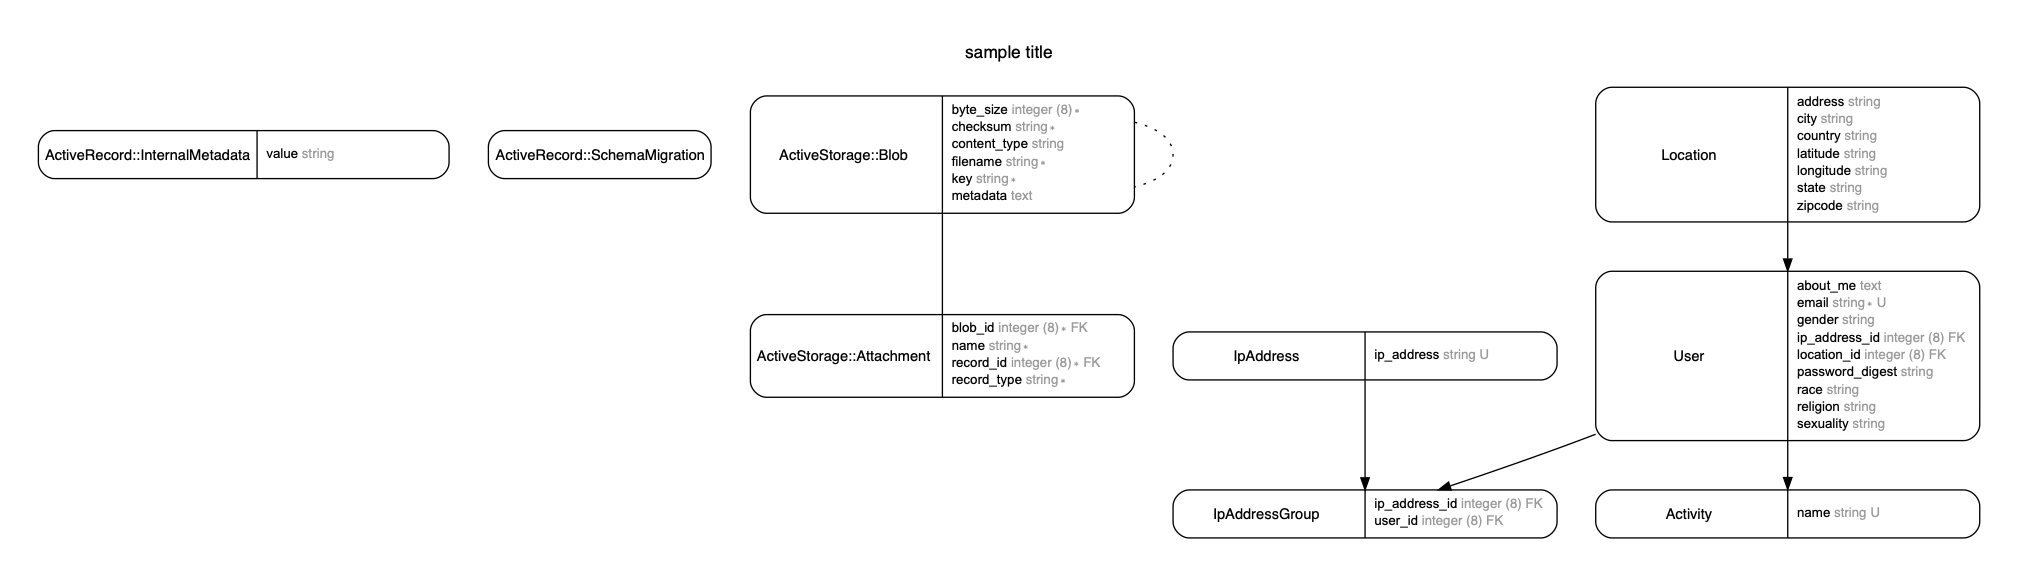
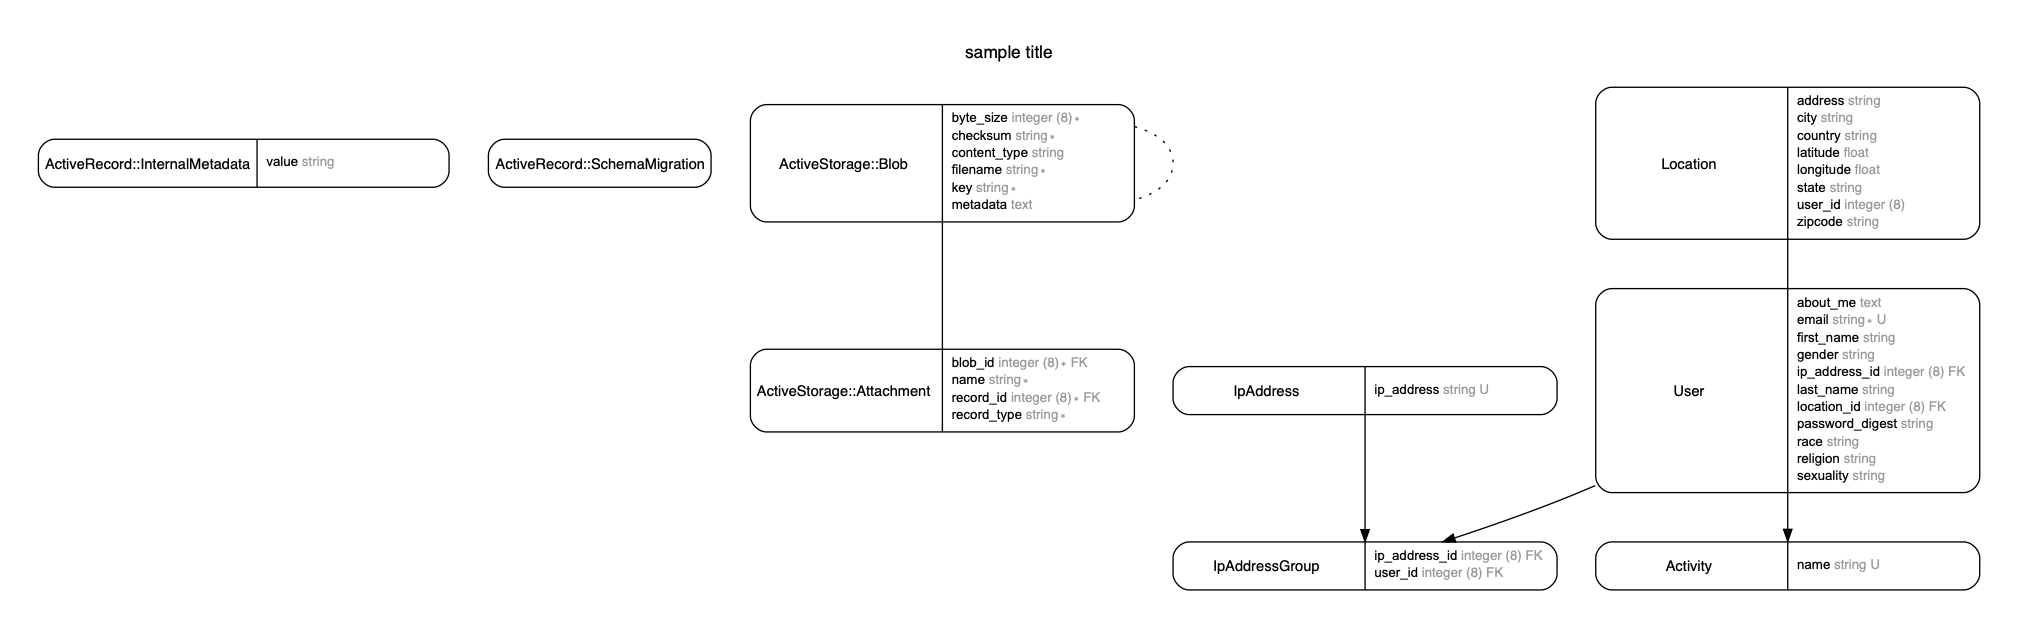
Can now search for all locations within a given users long/latitude and also search by radius in miles or km using Geocoder ruby gem.

diff --git a/db/schema.rb b/db/schema.rb
@@ -10,7 +10,7 @@
 #
 # It's strongly recommended that you check this file into your version control system.
 
-ActiveRecord::Schema.define(version: 2019_08_03_140142) do
+ActiveRecord::Schema.define(version: 2019_08_04_164240) do
 
   create_table "active_storage_attachments", options: "ENGINE=InnoDB DEFAULT CHARSET=utf8", force: :cascade do |t|
     t.string "name", null: false
@@ -55,8 +55,8 @@ ActiveRecord::Schema.define(version: 2019_08_03_140142) do
   end
 
   create_table "locations", options: "ENGINE=InnoDB DEFAULT CHARSET=utf8", force: :cascade do |t|
-    t.string "latitude"
-    t.string "longitude"
+    t.float "latitude"
+    t.float "longitude"
     t.string "city"
     t.string "country"
     t.string "address"
@@ -64,6 +64,8 @@ ActiveRecord::Schema.define(version: 2019_08_03_140142) do
     t.datetime "created_at", null: false
     t.datetime "updated_at", null: false
     t.string "zipcode"
+    t.bigint "user_id"
+    t.index ["user_id"], name: "index_locations_on_user_id"
   end
 
   create_table "users", options: "ENGINE=InnoDB DEFAULT CHARSET=utf8", force: :cascade do |t|
@@ -78,12 +80,15 @@ ActiveRecord::Schema.define(version: 2019_08_03_140142) do
     t.string "sexuality"
     t.string "religion"
     t.string "race"
+    t.string "first_name"
+    t.string "last_name"
     t.index ["email"], name: "index_users_on_email", unique: true
     t.index ["ip_address_id"], name: "index_users_on_ip_address_id"
     t.index ["location_id"], name: "index_users_on_location_id"
   end
 
   add_foreign_key "active_storage_attachments", "active_storage_blobs", column: "blob_id"
+  add_foreign_key "locations", "users"
   add_foreign_key "users", "ip_addresses"
   add_foreign_key "users", "locations"
 end

diff --git a/app/controllers/users_controller.rb b/app/controllers/users_controller.rb
@@ -43,9 +43,7 @@ class UsersController < ApplicationController
     end
 
     result = Geocoder.search(@ip)
-    if result != nil
-    puts result.first.to_s
-    
+    if result != nil    
     @location = Location.new
     @location.latitude = result.first.latitude
     @location.longitude = result.first.longitude
@@ -53,7 +51,8 @@ class UsersController < ApplicationController
     @location.city = result.first.city
     @location.state = result.first.region
     @location.zipcode = result.first.postal
-
+    
+    @location.user_id = @user.id
     @location.save!
 
     @user.location_id = @location.id
@@ -106,6 +105,6 @@ class UsersController < ApplicationController
 
   # Never trust parameters from the scary internet, only allow the white list through.
   def user_params
-    params.require(:user).permit(:email, :password, :password_confirmation, :race, :gender, :religion, :sexuality, :about_me)
+    params.require(:user).permit(:email, :password, :password_confirmation, :race, :gender, :religion, :sexuality, :about_me, :first_name, :last_name)
   end
 end

diff --git a/app/controllers/application_controller.rb b/app/controllers/application_controller.rb
@@ -2,7 +2,6 @@
 
 class ApplicationController < ActionController::Base
   helper_method :current_user
-  rescue_from ActiveRecord::RecordNotFound, with: :handle_record_not_found
 
   before_action :update_ip_address
 
@@ -28,14 +27,16 @@ class ApplicationController < ActionController::Base
 
   def current_user
     if session[:user_id]
+    
+    begin
       @current_user ||= User.find(session[:user_id])
+    rescue ActiveRecord::RecordNotFound => e
+      @current_user = nil
+    end
 
     else
       @current_user = nil
     end
   end
 
-  def handle_record_not_found
-    redirect_to logout_path
-  end
 end

diff --git a/app/controllers/find_a_friend_controller.rb b/app/controllers/find_a_friend_controller.rb
@@ -1,7 +1,19 @@
 # frozen_string_literal: true
 
 class FindAFriendController < ApplicationController
+
+  before_action :authenticate_user!
+
+  def authenticate_user!
+    if current_user.nil?
+      redirect_to root_path, notice: "Please Login to view that page!"
+    end
+  end
+
   def search
+    
+    @locations = Location.near([current_user.location.latitude, current_user.location.longitude], 5)
+
     render 'find_a_friend/search'
   end
 end

diff --git a/app/models/location.rb b/app/models/location.rb
@@ -2,6 +2,15 @@
 
 class Location < ApplicationRecord
 
+    extend Geocoder::Model::ActiveRecord
+    geocoded_by :address
+
     validates :zipcode, zipcode: { country_code: :us }
+
+    has_one :user
+
+    def address
+        address + city + country
+    end
     
 end

diff --git a/db/migrate/20190804162648_change_location_latitude_and_longitude_to_floats.rb b/db/migrate/20190804162648_change_location_latitude_and_longitude_to_floats.rb
@@ -1,0 +1,6 @@
+class ChangeLocationLatitudeAndLongitudeToFloats < ActiveRecord::Migration[5.2]
+  def change
+    change_column :locations, :longitude, :float
+    change_column :locations, :latitude, :float
+  end
+end

diff --git a/db/migrate/20190804164240_add_first_name_and_last_name_to_user.rb b/db/migrate/20190804164240_add_first_name_and_last_name_to_user.rb
@@ -1,0 +1,6 @@
+class AddFirstNameAndLastNameToUser < ActiveRecord::Migration[5.2]
+  def change
+    add_column :users, :first_name, :string
+    add_column :users, :last_name, :string
+  end
+end

diff --git a/db/migrate/20190804154400_add_user_to_location.rb b/db/migrate/20190804154400_add_user_to_location.rb
@@ -1,0 +1,5 @@
+class AddUserToLocation < ActiveRecord::Migration[5.2]
+  def change
+    add_reference :locations, :user, foreign_key: true
+  end
+end
